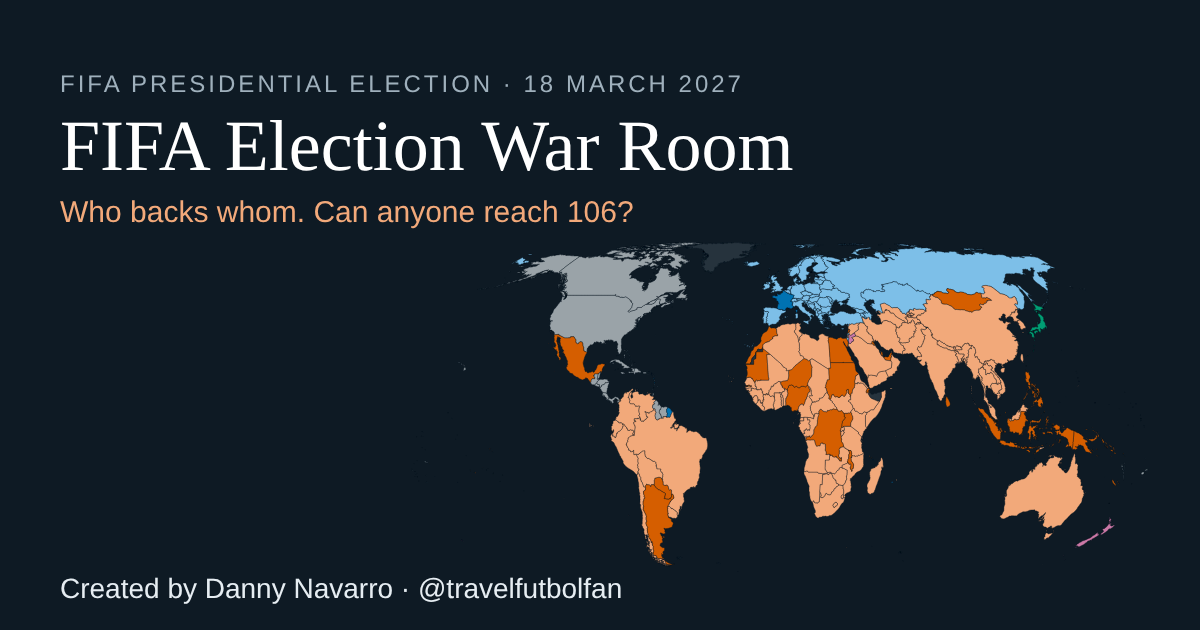
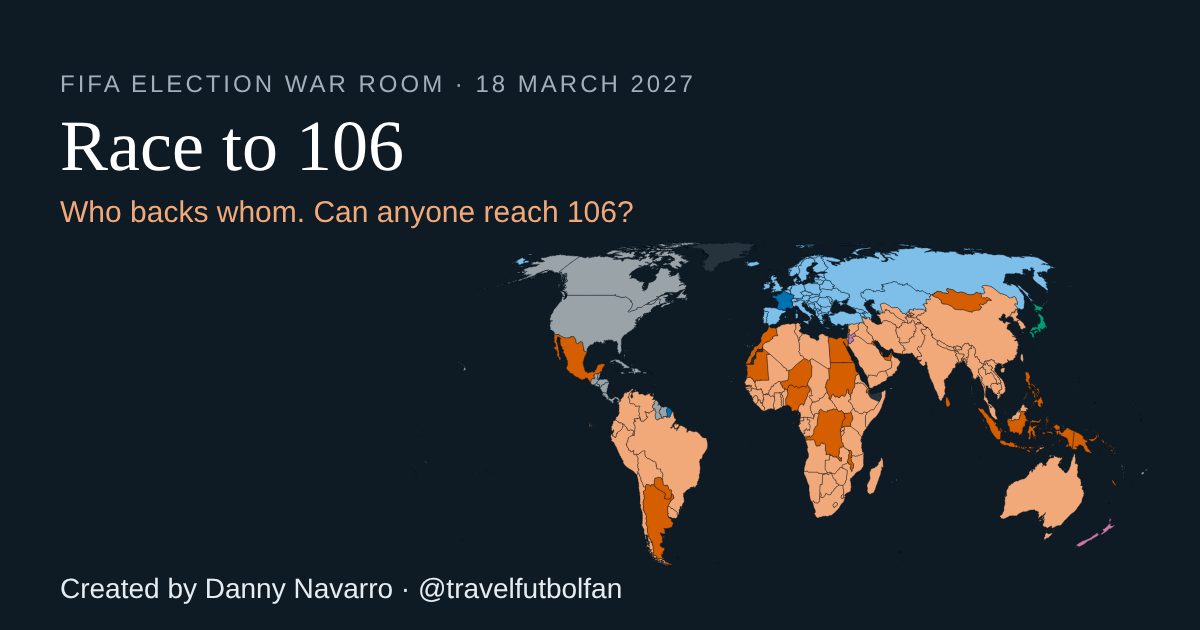
Rename display title to Race to 106 (subtitle: FIFA Election War Room), update share and preview images
Claude-Session: https://claude.ai/code/session_01R5Nq95QpVyY9M7ayg4V5FY

Changed region(s): [[0.0617, 0.181, 0.6783, 0.2714], [0.0925, 0.1206, 0.6167, 0.1508]]

diff --git a/index.html b/index.html
@@ -3,7 +3,7 @@
 <head>
 <meta charset="utf-8">
 <meta name="viewport" content="width=device-width, initial-scale=1">
-<title>FIFA Election War Room</title>
+<title>Race to 106 · FIFA Election War Room</title>
 <link rel="icon" type="image/svg+xml" href="favicon.svg">
 <meta property="og:type" content="website">
 <meta property="og:url" content="https://travelfutbolfan.github.io/fifa-war-room/">
@@ -11,11 +11,11 @@
 <meta property="og:image:width" content="1200">
 <meta property="og:image:height" content="630">
 <meta name="twitter:card" content="summary_large_image">
-<meta name="twitter:title" content="FIFA Election War Room">
+<meta name="twitter:title" content="Race to 106 · FIFA Election War Room">
 <meta name="twitter:description" content="Track the March 2027 FIFA presidential election. Who backs whom, can anyone reach 106, and how it got here.">
 <meta name="twitter:image" content="https://travelfutbolfan.github.io/fifa-war-room/og.png">
 <meta name="description" content="Who backs whom in the March 2027 FIFA presidential election: a live map of all 211 voting associations, a what-if tool, and a timeline. Created by Danny Navarro, @travelfutbolfan.">
-<meta property="og:title" content="FIFA Election War Room">
+<meta property="og:title" content="Race to 106 · FIFA Election War Room">
 <meta property="og:description" content="Track the March 2027 FIFA presidential election. Who backs whom, can anyone reach 106, and how it got here.">
 <style>
 :root{--color-fg:#1a1a1a;--color-fg-muted:#5b6770;--color-bg:#fff;--color-panel:#f6f7f8;--color-border-line:#d8dde1;--color-ok:#1a7f4b;--font-anthropic-sans:system-ui,-apple-system,"Segoe UI",Roboto,Helvetica,Arial,sans-serif;--font-anthropic-serif:Georgia,"Times New Roman",serif;--cds-radius:10px}
@@ -33,8 +33,8 @@ body{font-family:var(--font-anthropic-sans);font-size:14px}
 
 <header class="top">
   <div class="brand">
-    <p class="war-kicker"><span class="en">FIFA presidential election</span><span class="es">Elección presidencial de la FIFA</span> · <b data-draw="fact" data-source="facts" data-field="value" data-where="key=congress">—</b></p>
-    <h1 id="title" class="war-title"><span class="en">FIFA Election War Room</span><span class="es">Sala de Guerra FIFA</span></h1>
+    <p class="war-kicker"><span class="en">FIFA Election War Room</span><span class="es">Sala de Guerra FIFA</span> · <b data-draw="fact" data-source="facts" data-field="value" data-where="key=congress">—</b></p>
+    <h1 id="title" class="war-title"><span class="en">Race to 106</span><span class="es">Carrera a los 106</span></h1>
     <p class="war-credit"><span class="en">Created by</span><span class="es">Creado por</span> Danny Navarro, <b>@travelfutbolfan</b></p>
   </div>
   <div class="tally" data-draw="topbar" data-source="tally facts associations"></div>
@@ -223,8 +223,8 @@ body{font-family:var(--font-anthropic-sans);font-size:14px}
 
         <p class="prose corr en">Spot something wrong or missing? <a href="https://ig.me/m/travelfutbolfan" target="_blank" rel="noopener noreferrer">Send a correction or tip</a> with a link to the source.</p>
         <p class="prose corr es">¿Ves algo incorrecto o que falte? <a href="https://ig.me/m/travelfutbolfan" target="_blank" rel="noopener noreferrer">Envía una corrección o un dato</a> con un enlace a la fuente.</p>
-        <p class="war-foot en">FIFA Election War Room, created by Danny Navarro (<b>@travelfutbolfan</b>). Corrections with a source are welcome.</p>
-        <p class="war-foot es">Sala de Guerra FIFA, creada por Danny Navarro (<b>@travelfutbolfan</b>). Se agradecen las correcciones con fuente.</p>
+        <p class="war-foot en">Race to 106 · FIFA Election War Room, created by Danny Navarro (<b>@travelfutbolfan</b>). Corrections with a source are welcome.</p>
+        <p class="war-foot es">Carrera a los 106 · Sala de Guerra FIFA, creada por Danny Navarro (<b>@travelfutbolfan</b>). Se agradecen las correcciones con fuente.</p>
       </section>
 
     </div>

diff --git a/war.js b/war.js
@@ -298,8 +298,8 @@ function buildShareSvg() {
   }).join('');
   return '<svg xmlns="http://www.w3.org/2000/svg" width="1080" height="1920" viewBox="0 0 1080 1920">' +
     '<rect width="1080" height="1920" fill="#0E1A24"/>' +
-    '<text x="60" y="110" font-size="28" letter-spacing="3" fill="#9FB0BC" font-family="Helvetica,Arial,sans-serif">' + L('FIFA PRESIDENTIAL ELECTION · ', 'ELECCIÓN PRESIDENCIAL DE LA FIFA · ') + escX(String(congress).toUpperCase()) + '</text>' +
-    '<text x="60" y="200" font-size="78" fill="#FFFFFF" font-family="Georgia,serif">' + L('FIFA Election War Room', 'Sala de Guerra FIFA') + '</text>' +
+    '<text x="60" y="110" font-size="28" letter-spacing="3" fill="#9FB0BC" font-family="Helvetica,Arial,sans-serif">' + L('FIFA ELECTION WAR ROOM · ', 'SALA DE GUERRA FIFA · ') + escX(String(congress).toUpperCase()) + '</text>' +
+    '<text x="60" y="200" font-size="78" fill="#FFFFFF" font-family="Georgia,serif">' + L('Race to 106', 'Carrera a los 106') + '</text>' +
     '<text x="60" y="270" font-size="38" fill="#F2A97A" font-family="Helvetica,Arial,sans-serif">' + escX(sc.tag) + '</text>' +
     cols + segs +
     '<rect x="' + (mx - 2).toFixed(1) + '" y="624" width="4" height="62" fill="#FFFFFF"/>' +
@@ -660,7 +660,7 @@ function applyLang() {
   const root = document.querySelector('.war');
   if (root) root.classList.toggle('lang-es', lang === 'es');
   document.documentElement.lang = lang;
-  document.title = L('FIFA Election War Room', 'Sala de Guerra FIFA');
+  document.title = L('Race to 106 · FIFA Election War Room', 'Carrera a los 106 · Sala de Guerra FIFA');
   document.querySelectorAll('[data-zoom]').forEach((b) => { const k = b.getAttribute('data-zoom'); b.setAttribute('aria-label', L(ZL[k][0], ZL[k][1])); if (ZT[k]) b.textContent = L(ZT[k][0], ZT[k][1]); });
   const ariaMap = { '.mapctl': ['Map controls', 'Controles del mapa'], '.views': ['Views', 'Vistas'], '#legend-reported': ['Filter the map by position', 'Filtrar el mapa por postura'], '#legend-blocs': ['Filter the map by confederation', 'Filtrar el mapa por confederación'], '.socials': ['Follow Danny Navarro', 'Sigue a Danny Navarro'] };
   Object.keys(ariaMap).forEach((sel) => document.querySelectorAll(sel).forEach((n) => n.setAttribute('aria-label', L(ariaMap[sel][0], ariaMap[sel][1]))));
